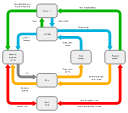
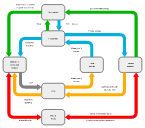
work on README

diff --git a/scripts/gallery.ts b/scripts/gallery.ts
@@ -56,7 +56,7 @@ for (const file of files) {
   try {
     const resvg = new Resvg(result.svg, {
       fitTo: {
-        mode: 'width',
+        mode: 'height',
         value: THUMB_SIZE,
       },
       background: 'white',
